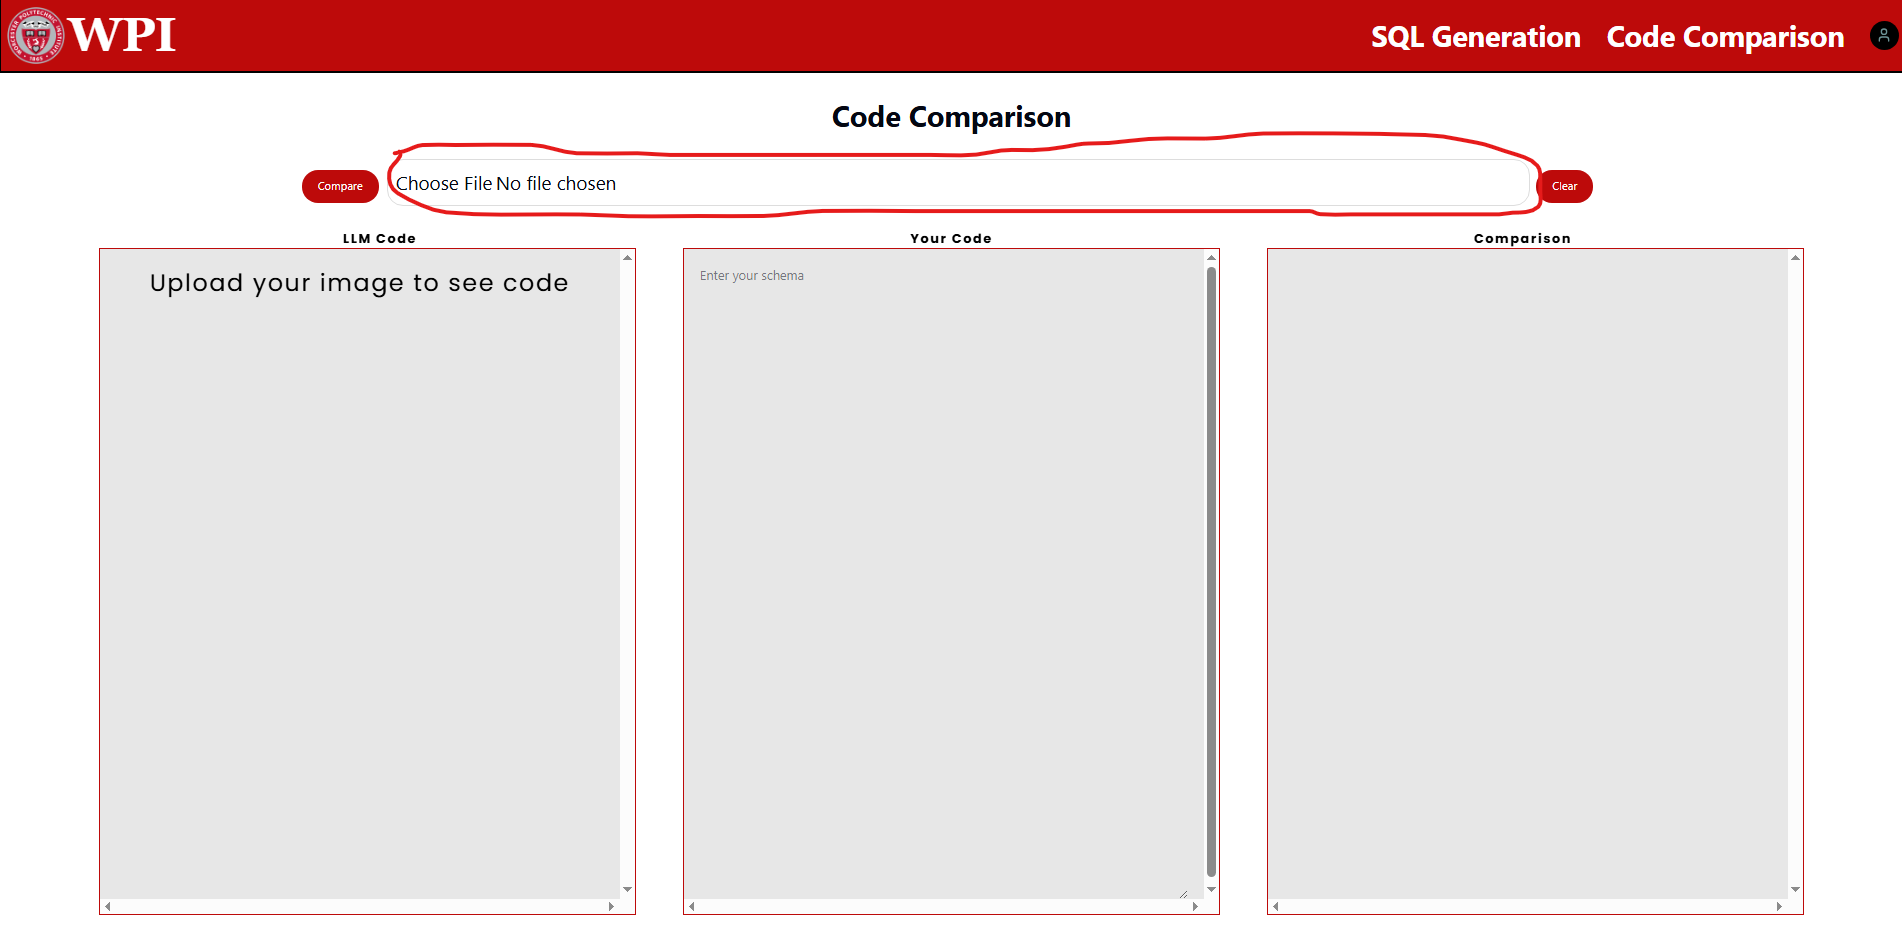
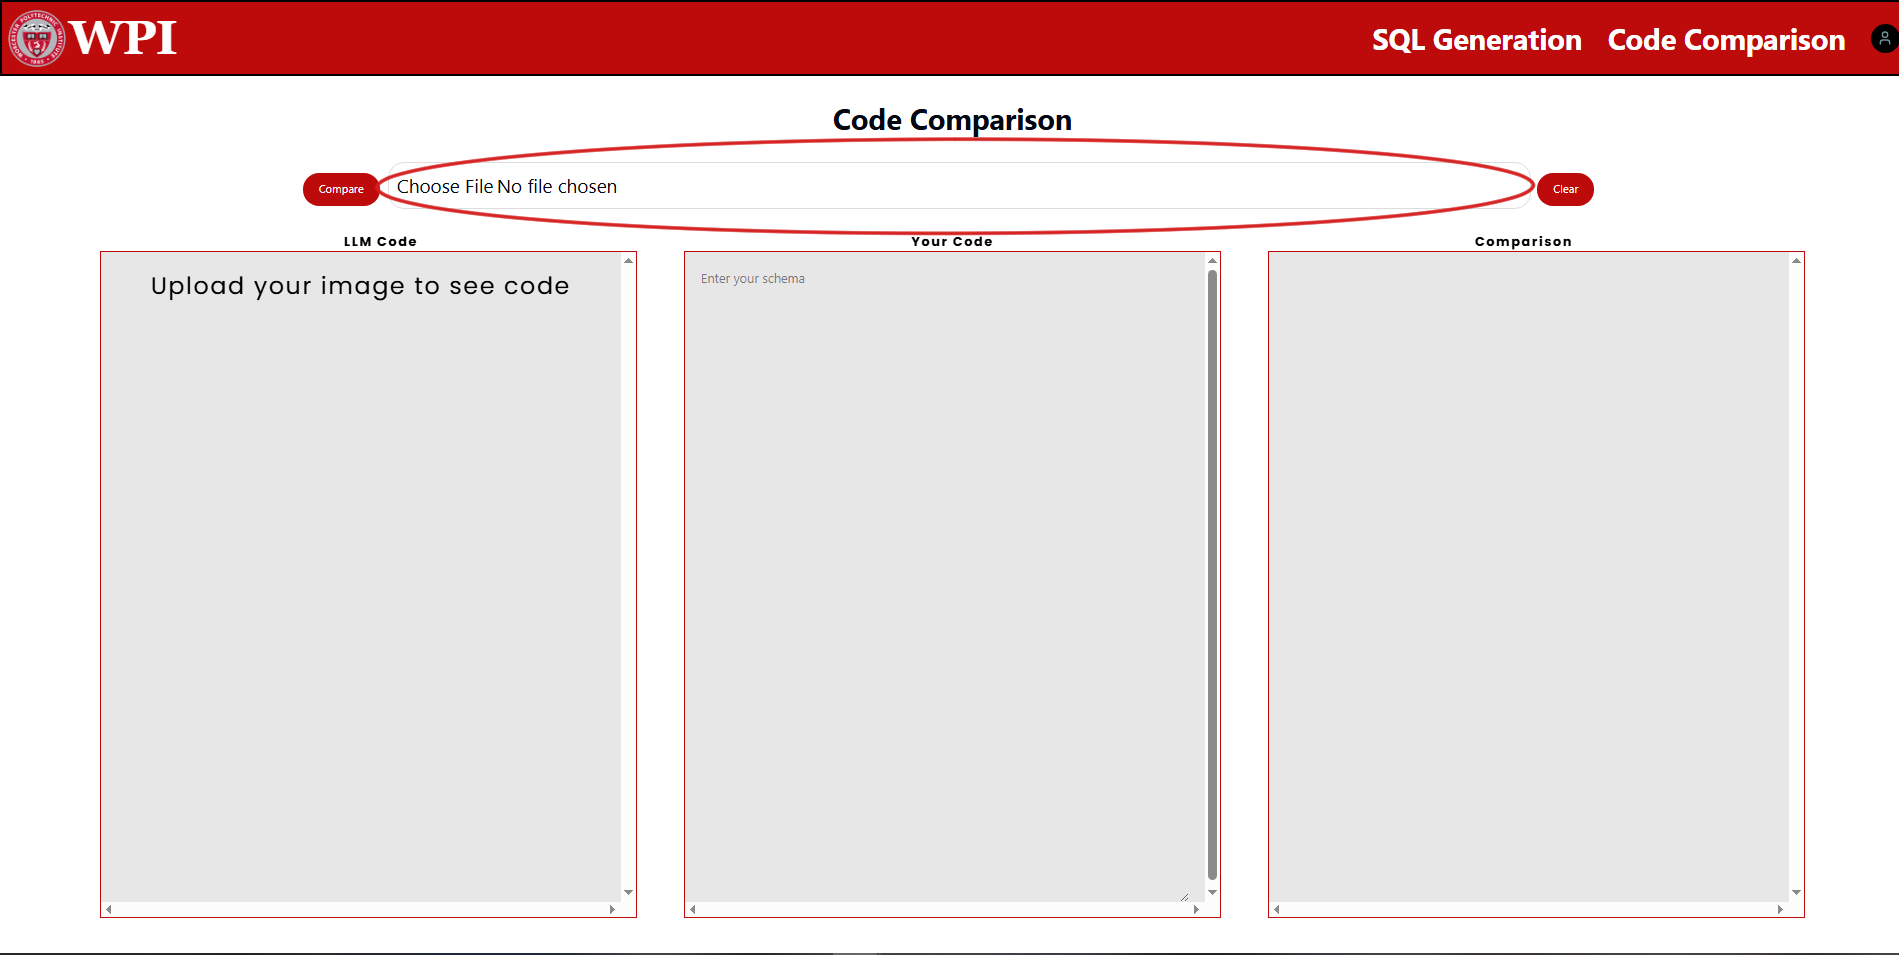
misc fixes

diff --git a/frontend/components/Tutorial.tsx b/frontend/components/Tutorial.tsx
@@ -25,31 +25,31 @@ const Tutorial = () => {
                 <h2 className={"h2-tut"} style={{textAlign: "center"}}>Hello! Thank you for looking at our project!<br/> Here are some explanations on how to use the various pages of our application.</h2>
                 <div className={"box"} style={{height: "auto", paddingBottom: "5vh"}}>
                     <h1 className={"h1-tut"}>Home Page</h1>
-                    <img src={HomePage} alt={"Picture of Home Page"}/>
+                    <img style={{border: "solid black 1px", justifySelf: "center"}} src={HomePage} alt={"Picture of Home Page"}/>
                     <h3 className={"h3-tut"}>This page has buttons that will take you to any page of the application. The pages they take you to are as described above or below them.</h3>
                 </div>
                 <div className={"box"} style={{height: "auto", paddingBottom: "5vh"}}>
                     <h1 className={"h1-tut"}>Generating SQL from an ERD with explanation</h1>
                     <h3 className={"h3-tut"}>If you are on the home page, click the left button of the two buttons that take you to the main features of the app.</h3>
-                    <img src={HomeSQLGen} alt={"Generate SQL Page Button"}/>
+                    <img style={{border: "solid black 1px", justifySelf: "center"}} src={HomeSQLGen} alt={"Generate SQL Page Button"}/>
                     <h3 className={"h3-tut"}>(Note: if you uploaded an ERD to the other page and did not clear it, it will automatically load that data here)<br/>Now that you are on the page, click the  bar that says "Choose File No File Chosen." It will open your files folder. Select and open the ERD you wish to generate code for. It will appear in the preview box below the button to the left as well as loading animations on the code and explanation boxes to the right of the preview box.</h3>
-                    <img src={GenChooseFile} alt={"Page with choose file circled"}/>
-                    <img src={GenERDPreview} alt={"Box with ERD preview"}/>
+                    <img style={{border: "solid black 1px", justifySelf: "center"}} src={GenChooseFile} alt={"Page with choose file circled"}/>
+                    <img style={{border: "solid black 1px", justifySelf: "center"}} src={GenERDPreview} alt={"Box with ERD preview"}/>
                     <h3 className={"h3-tut"}>Give the LLM some time to think, and once it is done, you will have both code and an explanation for why that code was generated the way it was!</h3>
-                    <img src={GenGeneratedCode} alt={"Picture of all three boxes filled"}/>
+                    <img style={{border: "solid black 1px", justifySelf: "center"}} src={GenGeneratedCode} alt={"Picture of all three boxes filled"}/>
                 </div>
                 <div className={"box"} style={{height: "auto", paddingBottom: "5vh"}}>
                     <h1 className={"h1-tut"}>Compare your SQL code to the LLM’s generated code</h1>
                     <h3 className={"h3-tut"}>From the home page, press the right button of the two that take you to the main functions of the app</h3>
-                    <img src={HomeComp} alt={"Code Comparison Page Button"}/>
+                    <img style={{border: "solid black 1px", justifySelf: "center"}} src={HomeComp} alt={"Code Comparison Page Button"}/>
                     <h3 className={"h3-tut"}> (Note: if you uploaded an ERD to the other page and did not clear it, it will automatically load that data here)<br/> Now that you are on the page, click the  bar that says "Choose File No File Chosen." It will open your files folder. Select and open the ERD you wish to generate code for.</h3>
-                    <img src={CompChooseFile} alt={"Page with choose file circled"}/>
+                    <img style={{border: "solid black 1px", justifySelf: "center"}} src={CompChooseFile} alt={"Page with choose file circled"}/>
                     <h3 className={"h3-tut"}>The LLM will think and generate code from the ERD in the far left box below.</h3>
-                    <img src={CompWithGenCode} alt={"Page with code generated in leftmost box"}/>
+                    <img style={{border: "solid black 1px", justifySelf: "center"}} src={CompWithGenCode} alt={"Page with code generated in leftmost box"}/>
                     <h3 className={"h3-tut"}> Type or paste your code into the middle box, then press the compare button next to the button you pressed to upload the ERD.</h3>
-                    <img src={CompPressComp} alt={"Page with compare button circles"}/>
+                    <img style={{border: "solid black 1px", justifySelf: "center"}} src={CompPressComp} alt={"Page with compare button circles"}/>
                     <h3 className={"h3-tut"}>The results of the comparison will appear in the rightmost box</h3>
-                    <img src={CompCompleteComparison} alt={"Full page with all three boxes having content"}/>
+                    <img style={{border: "solid black 1px", justifySelf: "center"}} src={CompCompleteComparison} alt={"Full page with all three boxes having content"}/>
                 </div>
             </div>
             <Footer/>

diff --git a/frontend/components/Footer.tsx b/frontend/components/Footer.tsx
@@ -7,7 +7,8 @@ export default function Footer() {
     }
     return (
         <>
-            <div className={"h-[8vh] m-[1vh] mt-[4vh]"} style={{textAlign: "left"}}>
+            <footer
+                className="sticky top-[100vh] bottom-0 w-full mx-auto p-1 mt-[5vh] bg-[#E7E7E7] flex items-center justify-center h-20">
                 <button
                     className={'circle-button'}
                     style={{width: "3vh", height: "3vh"}}
@@ -16,9 +17,6 @@ export default function Footer() {
                     }}>
                     <h2 style={{color: "white", fontSize: "2vh"}}>i</h2>
                 </button>
-            </div>
-            <footer
-                className="sticky top-[100vh] bottom-0 w-full mx-auto p-1 mt-1 bg-[#E7E7E7] flex items-center justify-center h-20">
                 <h2 className={"text-black"}>This website was created as an MQP advised by professors Rodica Neamtu and
                     Wilson Wong. Any inquiries can be directed to gr-esapt-mqp-2025@wpi.edu</h2>
             </footer>

diff --git a/frontend/src/tutorial.css b/frontend/src/tutorial.css
@@ -27,7 +27,4 @@
     margin-bottom: 2vh;
 }
 
-img {
-    border: solid 1px black;
-    justify-self: center;
-}
+
